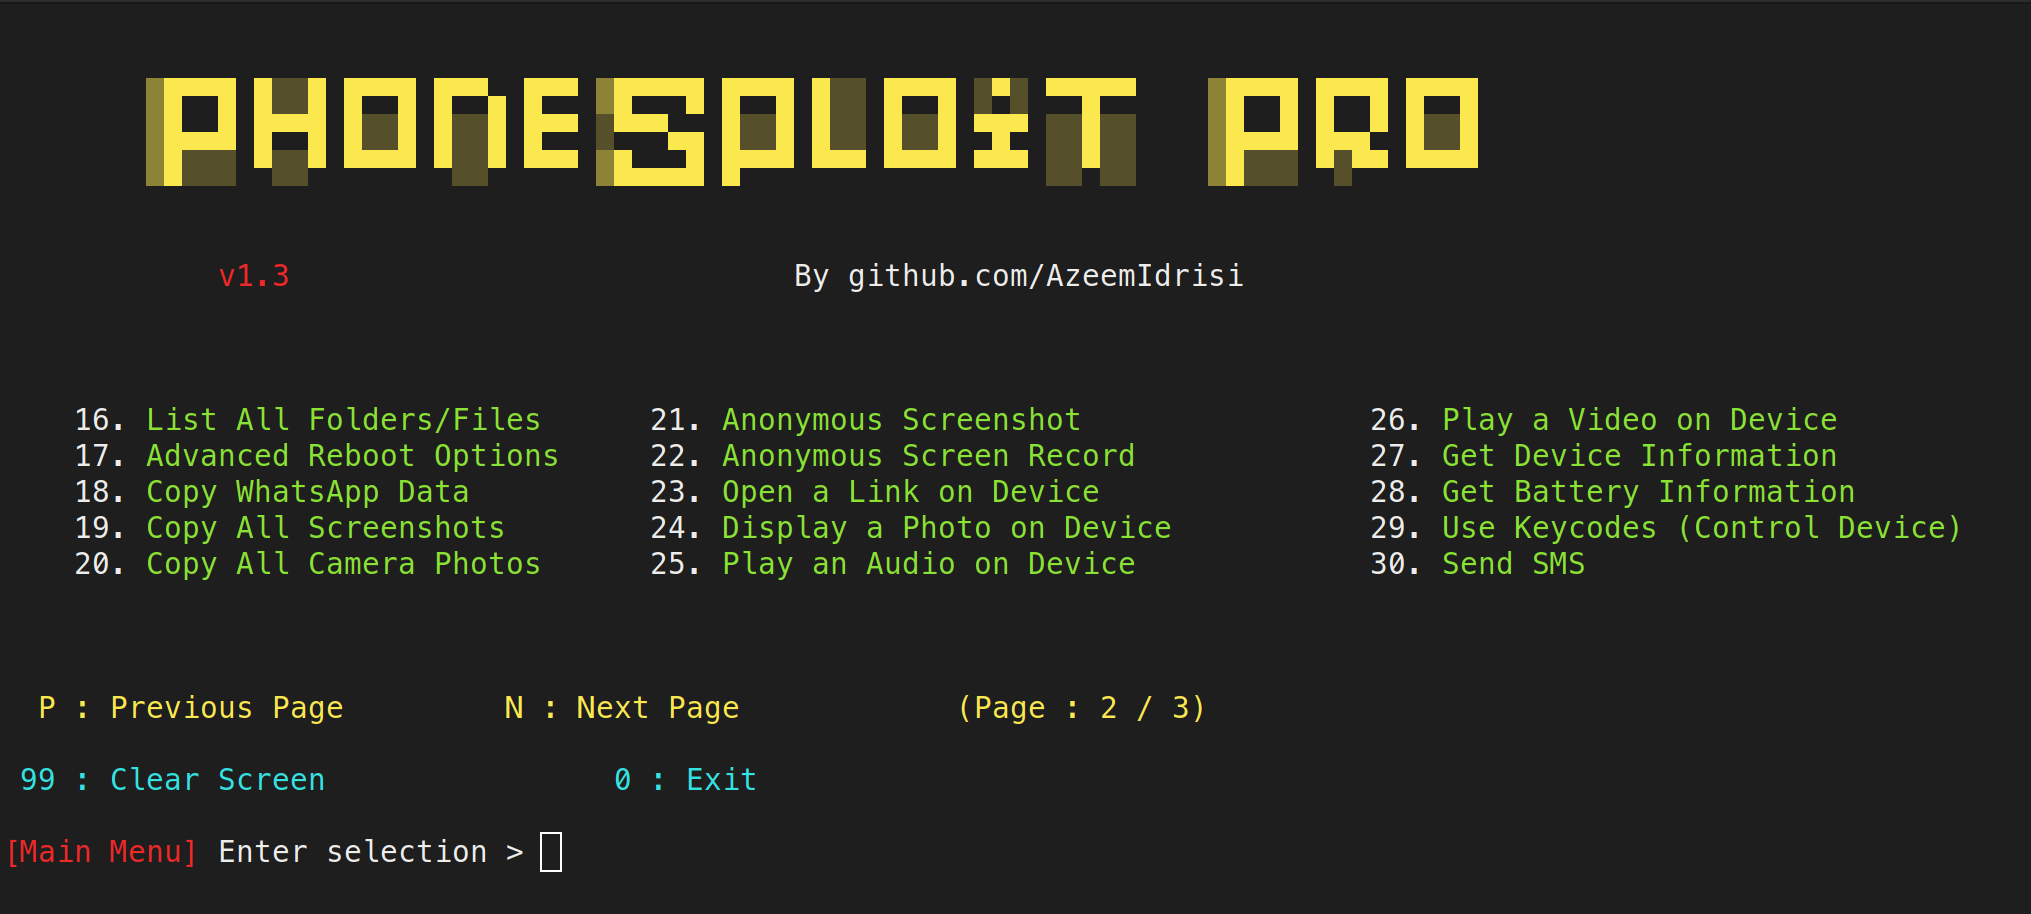
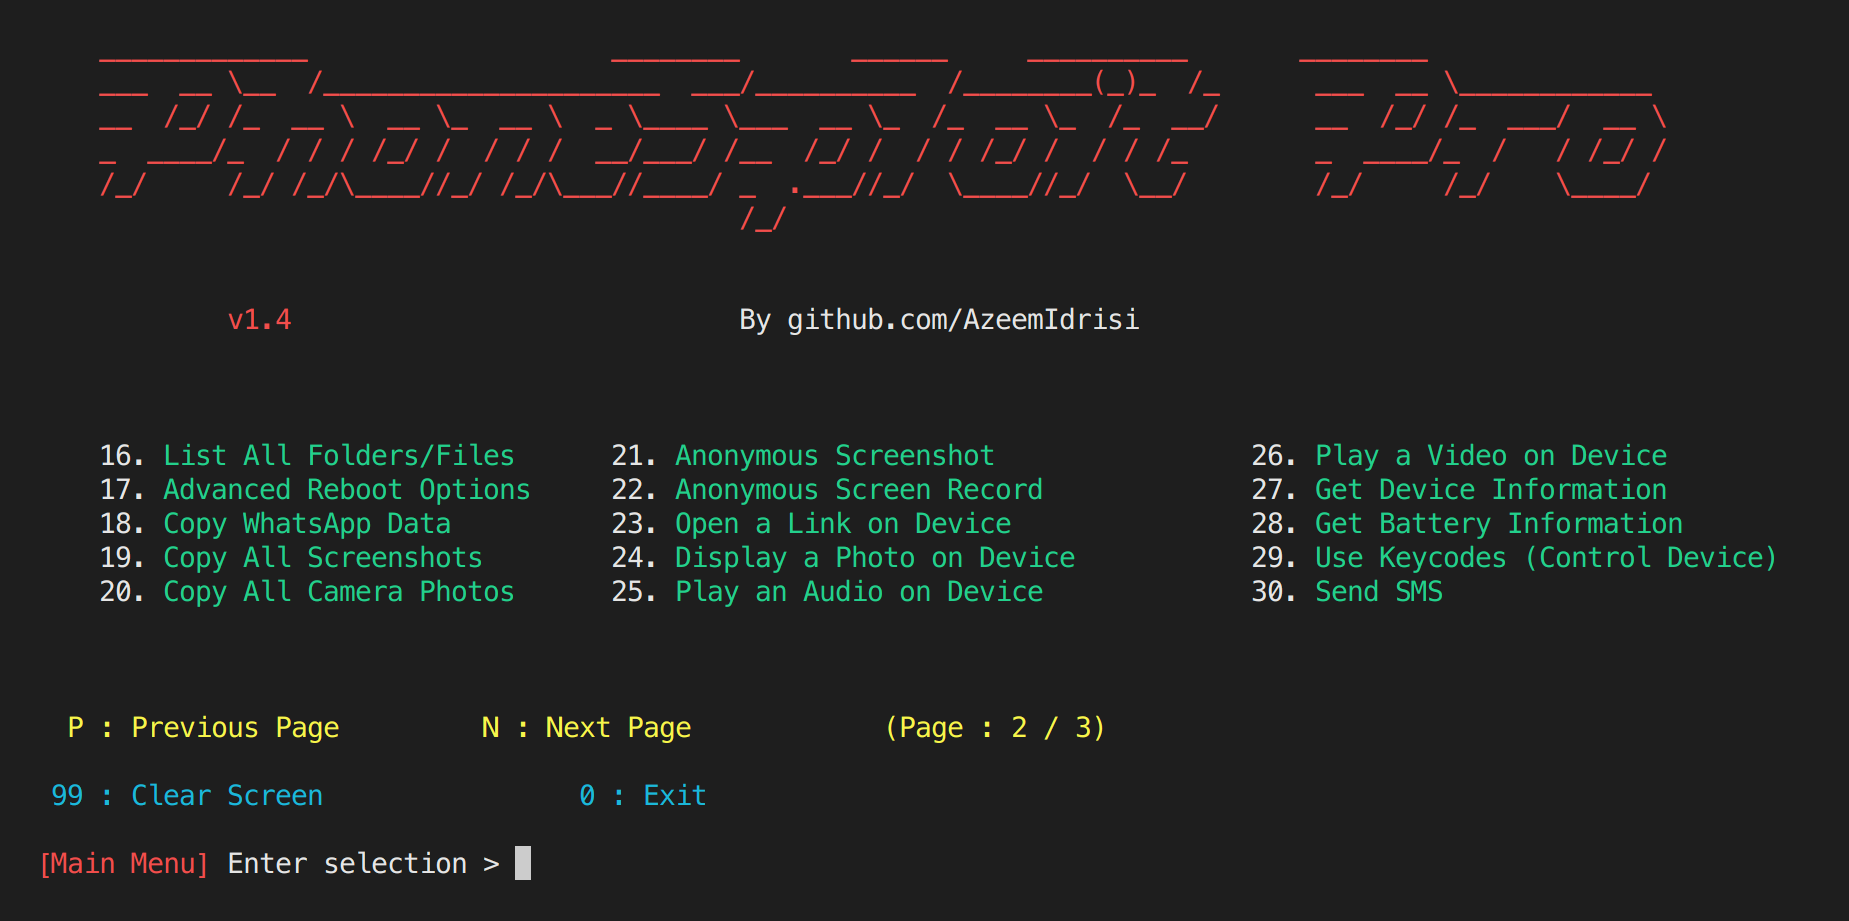
v1.4 Update

diff --git a/modules/banner.py b/modules/banner.py
@@ -31,8 +31,8 @@ menu2 = f'''
 menu3 = f'''
 
     {color.WHITE}31. {color.GREEN}Unlock Device               {color.WHITE}36. {color.GREEN}Extract APK from Installed App      {color.WHITE}    {color.GREEN}
-    {color.WHITE}32. {color.GREEN}Lock Device                 {color.WHITE}37. {color.GREEN}Stop ADB Server                          {color.WHITE}    {color.GREEN}
-    {color.WHITE}33. {color.GREEN}Dump All SMS                {color.WHITE}    {color.GREEN}                                    {color.WHITE}    {color.GREEN}
+    {color.WHITE}32. {color.GREEN}Lock Device                 {color.WHITE}37. {color.GREEN}Stop ADB Server                     {color.WHITE}    {color.GREEN}
+    {color.WHITE}33. {color.GREEN}Dump All SMS                {color.WHITE}38. {color.GREEN}Power Off Device                    {color.WHITE}    {color.GREEN}
     {color.WHITE}34. {color.GREEN}Dump All Contacts           {color.WHITE}    {color.GREEN}                                    {color.WHITE}    {color.GREEN}
     {color.WHITE}35. {color.GREEN}Dump Call Logs              {color.WHITE}    {color.GREEN}                                    {color.WHITE}    {color.GREEN}
 
@@ -72,7 +72,7 @@ banner2 = f'''
         ░█─── ▀──▀ ▀▀▀▀ ▀──▀ ▀▀▀ ░█▄▄▄█ █▀▀▀ ▀▀▀ ▀▀▀▀ ▀▀▀ ──▀── 　 ░█─── ▀─▀▀ ▀▀▀▀
 
 
-            {color.RED}v1.3{color.WHITE}            {color.WHITE}By github.com/AzeemIdrisi
+            {color.RED}v1.4{color.WHITE}            {color.WHITE}By github.com/AzeemIdrisi
 '''
 
 banner3 = f'''
@@ -81,7 +81,7 @@ banner3 = f'''
         █▀▀ █▀█ █▄█ █░▀█ ██▄ ▄█ █▀▀ █▄▄ █▄█ █ ░█░   █▀▀ █▀▄ █▄█ 
 
 
-            {color.RED}v1.3{color.WHITE}             {color.WHITE}By github.com/AzeemIdrisi
+            {color.RED}v1.4{color.WHITE}             {color.WHITE}By github.com/AzeemIdrisi
 '''
 
 banner4 = f'''
@@ -93,7 +93,7 @@ banner4 = f'''
                 \/            \/     \/        \/|__|                                                      
 
 
-        {color.RED}v1.3{color.WHITE}                             {color.WHITE}By github.com/AzeemIdrisi
+        {color.RED}v1.4{color.WHITE}                             {color.WHITE}By github.com/AzeemIdrisi
 '''
 banner5 = f'''
        ___  __                 ____     __     _ __     ___         
@@ -102,7 +102,7 @@ banner5 = f'''
     /_/  /_//_/\___/_//_/\__/___/ .__/_/\___/_/\__/  /_/  /_/  \___/
                                /_/                                                                                                      
 
-        {color.RED}v1.3{color.WHITE}        {color.WHITE}By github.com/AzeemIdrisi
+        {color.RED}v1.4{color.WHITE}        {color.WHITE}By github.com/AzeemIdrisi
 '''
 
 banner6 = f'''
@@ -113,7 +113,7 @@ banner6 = f'''
     /_/   /_/ /_/\____/_/ /_/\___/____/ .___/_/\____/_/\__/    /_/   /_/   \____/
                                      /_/                                                                                                       
     
-           {color.RED}v1.3{color.WHITE}               {color.WHITE}By github.com/AzeemIdrisi
+           {color.RED}v1.4{color.WHITE}               {color.WHITE}By github.com/AzeemIdrisi
 
 '''
 
@@ -128,7 +128,7 @@ banner10 = f'''
                                                          \ \_\                                                       
                                                           \/_/                                              
 
-            {color.RED}v1.3{color.WHITE}                                {color.WHITE}By github.com/AzeemIdrisi
+            {color.RED}v1.4{color.WHITE}                                {color.WHITE}By github.com/AzeemIdrisi
 
 '''
 
@@ -141,7 +141,7 @@ banner11 = f'''
                                             /_/                                                      
 
 
-            {color.RED}v1.3{color.WHITE}                            {color.WHITE}By github.com/AzeemIdrisi
+            {color.RED}v1.4{color.WHITE}                            {color.WHITE}By github.com/AzeemIdrisi
 
 '''
 
@@ -152,7 +152,7 @@ banner12 = f'''
         ▒█░░░ ▀░░▀ ▀▀▀▀ ▀░░▀ ▀▀▀ ▒█▄▄▄█ █▀▀▀ ▀▀▀ ▀▀▀▀ ▀▀▀ ░░▀░░ 　 ▒█░░░ ▀░▀▀ ▀▀▀▀   
 
 
-            {color.RED}v1.3{color.WHITE}                            {color.WHITE}By github.com/AzeemIdrisi
+            {color.RED}v1.4{color.WHITE}                            {color.WHITE}By github.com/AzeemIdrisi
 
 '''
 banner_list = [banner2, banner3, banner4, banner5,

diff --git a/phonesploitpro.py b/phonesploitpro.py
@@ -115,9 +115,13 @@ def connect():
         return
     else:
         # Restart ADB on new connection.
-        os.system(
-            'adb kill-server > hidden.txt 2>&1&&adb start-server > hidden.txt 2>&1')
-        os.system("adb connect " + ip + ":5555")
+        if ip.count('.') == 3:
+            os.system(
+                'adb kill-server > hidden.txt 2>&1&&adb start-server > hidden.txt 2>&1')
+            os.system("adb connect " + ip + ":5555")
+        else:
+            print(
+                f'\n{color.RED} Invalid IP Address\n{color.GREEN} Going back to Main Menu{color.WHITE}')
 
 
 def list_devices():
@@ -1073,6 +1077,25 @@ def mirror():
     print('\n')
 
 
+def power_off():
+    print(
+        f'\n{color.RED}[Warning]{color.YELLOW} Powering off device will disconnect the device{color.WHITE}')
+    choice = input('\nDo you want to continue?     Y / N > ').lower()
+    if choice == 'y' or choice == '':
+        pass
+    elif choice == 'n':
+        return
+    else:
+        while choice != 'y' and choice != 'n' and choice != '':
+            choice = input('\nInvalid choice!, Press Y or N > ').lower()
+            if choice == 'y' or choice == '':
+                pass
+            elif choice == 'n':
+                return
+    os.system(f'adb shell reboot -p')
+    print('\n')
+
+
 def main():
     # Clearing the screen and presenting the menu
     # taking selection input from user
@@ -1163,6 +1186,8 @@ def main():
             extract_apk()
         case '37':
             stop_adb()
+        case '38':
+            power_off()
         case other:
             print("\nInvalid selection!\n")
 

diff --git a/README.md b/README.md
@@ -73,6 +73,10 @@ The goal of this project is to make penetration testing on Android devices easy.
 
 * Mirror and Control the target device. 
 
+## v1.4
+
+* Power off the target device. 
+
 # Requirements  
 * [`python3`](https://www.python.org/) : Python 3.10 or Newer
 * [`adb`](https://developer.android.com/studio/command-line/adb) : Android Debug Bridge (ADB) from `Android SDK Platform Tools`

diff --git a/docs/SECURITY.md b/docs/SECURITY.md
@@ -7,6 +7,7 @@ currently being supported with security updates. -->
 
 | Version | Supported          |
 | ------- | ------------------ |
+| v1.4   | ✅ |
 | v1.3   | ✅ |
 | v1.2   | ✅ |
 | v1.1   | ✅ |
